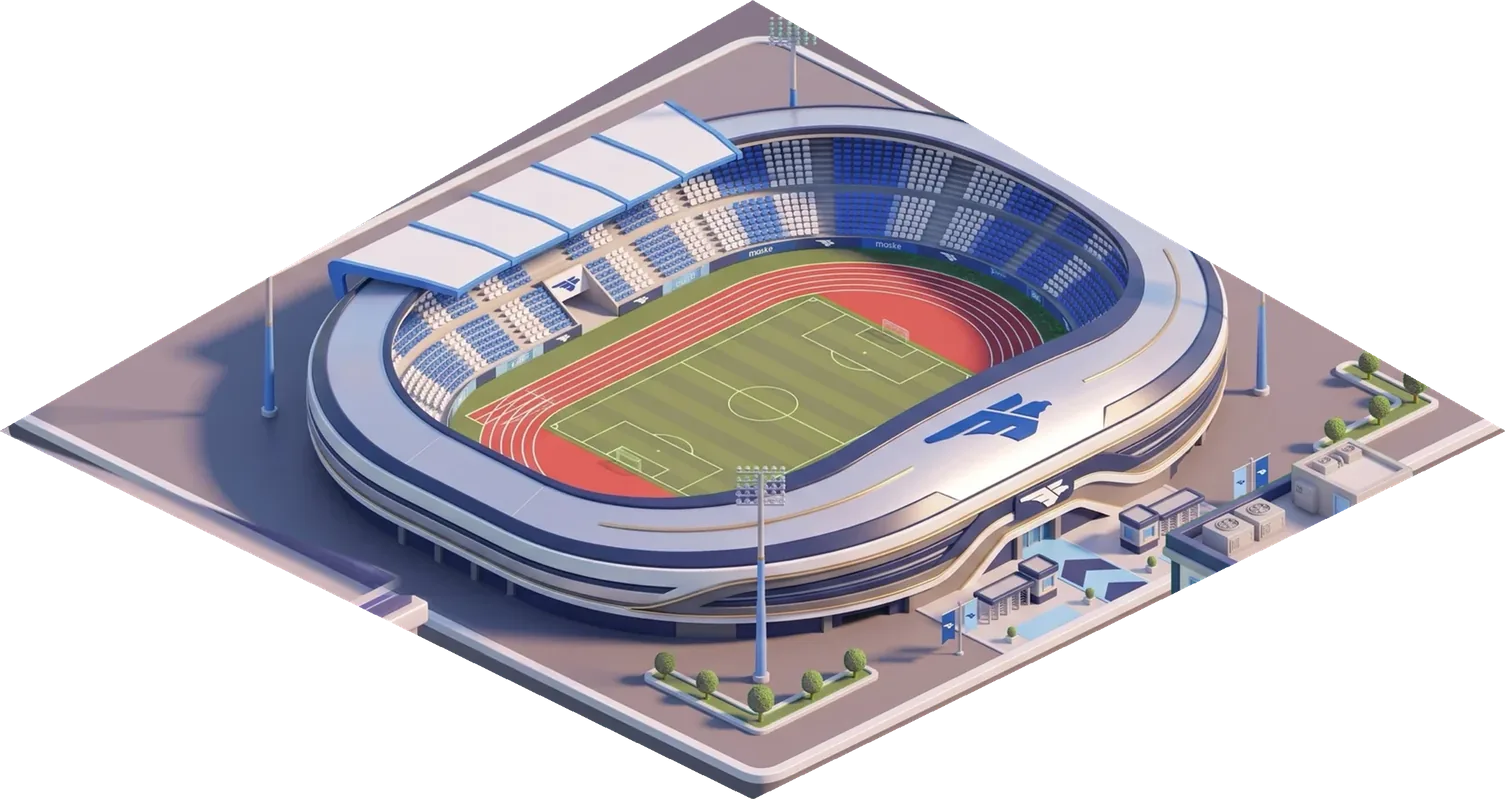
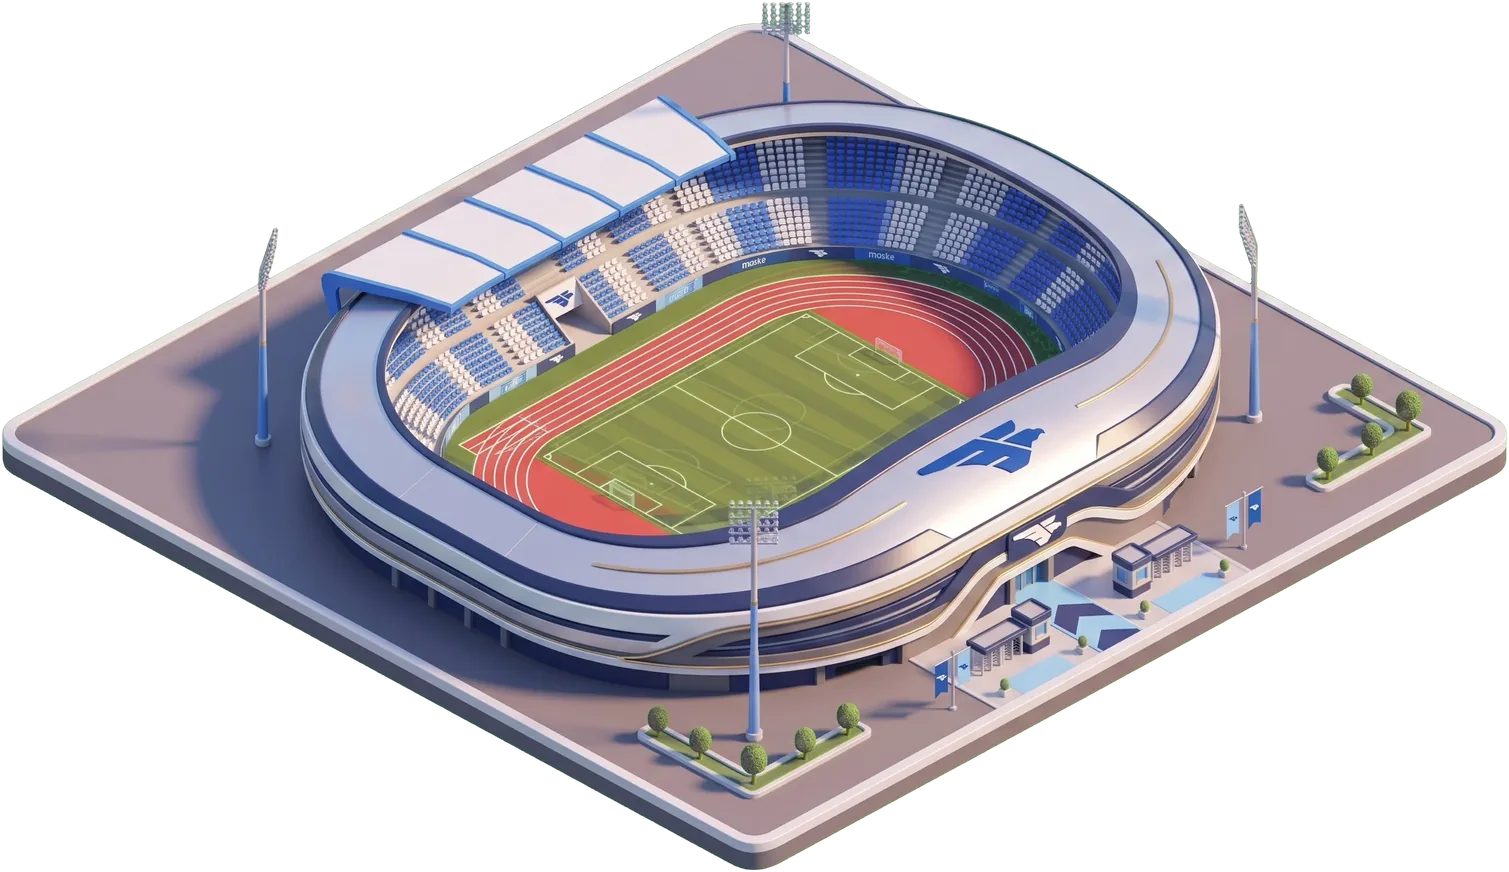
Island polish: whole stadium, navy shop, MOSKE box over rebuilds (#65)
The pool, Mall and market now draw in front of the base's collectors.
The stadium is the whole plot picture with its pitch filled in.
The gear shop uses Home's navy instead of bottle green.
While a club, pool or market is rebuilt, a giant MOSKE box covers the ruin.

Changed region(s): [[0.0, 0.0, 0.9993, 1.0]]

diff --git a/css/shop.css b/css/shop.css
@@ -1,12 +1,15 @@
-/* shop.css — the redesigned shop (docs/SHOP.md): a bottle green canvas, warm
+/* shop.css — the redesigned shop (docs/SHOP.md): Home's navy canvas, warm
    beige structure, square item cards two to a row on lit blue wells, chunky
    gold price buttons, and the tab's currency pinned to the bottom.
    Everything is scoped to .gw-screen.is-shop, so the inventory and the rest of
    the app keep their own look until they're redesigned. Tokens: theme.css. */
 
 /* ---- the canvas ---------------------------------------------------------------------- */
+/* the shop wears Home's navy: these replace theme.css's green for it alone */
+.gw-screen.is-shop, .sc-wallet, .sc-info-sheet { --bg-canvas: #16264D; --bg-surface-deep: #0B1630; --ink-green: #16264D; }
+
 .gw-screen.is-shop {
-  background: radial-gradient(120% 60% at 50% 0%, #17502E 0%, var(--bg-canvas) 55%, #0C301A 100%);
+  background: radial-gradient(120% 60% at 50% 0%, #2A4A86 0%, var(--bg-canvas) 55%, var(--bg-surface-deep) 100%);
   color: var(--text-white);
   font-family: var(--font-reading);
   font-variation-settings: 'wght' 600;
@@ -17,14 +20,14 @@
   font-family: var(--font-header); font-variation-settings: 'wght' 860;
 }
 
-/* the header: a beige band with the title in heavy ink */
-.gw-screen.is-shop > .sh-head { background: linear-gradient(var(--surface-neutral-hi), var(--surface-neutral)); color: var(--ink-green);
-  box-shadow: inset 0 -3px 0 var(--surface-neutral-lo), 0 3px 0 rgba(0, 0, 0, .35); }
+/* the header: a navy band with the title in white */
+.gw-screen.is-shop > .sh-head { background: linear-gradient(#2A3E6E, var(--bg-canvas)); color: var(--text-white);
+  box-shadow: inset 0 -2px 0 rgba(111, 174, 246, .35), 0 3px 0 rgba(0, 0, 0, .35); }
 .gw-screen.is-shop > .sh-head::after { display: none; }
-.gw-screen.is-shop .sh-title { color: var(--ink-green); }
+.gw-screen.is-shop .sh-title { color: var(--text-white); }
 .gw-screen.is-shop .sh-title-text { font-size: 22px; letter-spacing: .01em; text-transform: none; text-shadow: none; }
-.gw-screen.is-shop .sh-title .ic { color: var(--ink-green); }
-.gw-screen.is-shop .sh-lead { --b: transparent; --e: transparent; background: var(--bg-canvas); color: var(--text-white); border-radius: 12px;
+.gw-screen.is-shop .sh-title .ic { color: var(--text-white); }
+.gw-screen.is-shop .sh-lead { --b: transparent; --e: transparent; background: var(--brand-blue); color: var(--text-white); border-radius: 12px;
   box-shadow: inset 0 2px 0 rgba(255, 255, 255, .12), 0 3px 0 rgba(0, 0, 0, .35); }
 
 /* ---- tabs: beige plates; the open one is seafoam with a mint rim (css/tabs.css) ---------- */
@@ -121,21 +124,21 @@
 /* ---- the currency, pinned to the bottom ---------------------------------------------------- */
 .sc-wallet { position: fixed; left: 0; right: 0; bottom: 0; z-index: 100; display: grid; grid-template-columns: 40px auto minmax(0, 1fr); gap: 10px;
   align-items: center; min-height: 64px; padding: 8px 20px calc(8px + env(safe-area-inset-bottom, 0px));
-  background: linear-gradient(180deg, rgba(10, 39, 21, .85) 0%, var(--bg-surface-deep) 100%);
+  background: linear-gradient(180deg, rgba(22, 38, 77, .9) 0%, var(--bg-surface-deep) 100%);
   -webkit-backdrop-filter: blur(12px); backdrop-filter: blur(12px); border-top: 2px solid rgba(230, 215, 189, .15); color: var(--text-white); }
 .sc-wallet img { width: 40px; height: 40px; object-fit: contain; filter: drop-shadow(0 2px 2px rgba(0, 0, 0, .5)); }
-.sc-wallet-name { font: 15px/1 var(--font-header); font-variation-settings: 'wght' 860; color: var(--mint-light); }
+.sc-wallet-name { font: 15px/1 var(--font-header); font-variation-settings: 'wght' 860; color: #A9D3FF; }
 .sc-wallet-track { position: relative; display: flex; align-items: baseline; justify-content: flex-end; gap: 6px; min-height: 30px; padding: 4px 12px;
   border-radius: 9999px; background: rgba(0, 0, 0, .35); overflow: hidden; }
-.sc-wallet-track i { position: absolute; inset: 0 auto 0 0; width: calc(var(--f) * 100%); background: linear-gradient(90deg, rgba(57, 166, 114, .55), rgba(169, 211, 255, .6)); }
+.sc-wallet-track i { position: absolute; inset: 0 auto 0 0; width: calc(var(--f) * 100%); background: linear-gradient(90deg, rgba(47, 108, 194, .6), rgba(169, 211, 255, .6)); }
 .sc-wallet-track b { position: relative; font: 20px/1 var(--font-header); font-variation-settings: 'wght' 860; }
-.sc-wallet-track small { position: relative; font-size: 12px; color: var(--mint-light); }
+.sc-wallet-track small { position: relative; font-size: 12px; color: #A9D3FF; }
 
 /* ---- the (i) sheet: the shop's colours ------------------------------------------------------ */
 .sc-info-sheet { background: var(--bg-canvas); color: var(--text-white); font-family: var(--font-reading); font-variation-settings: 'wght' 600; }
-.sc-info-sheet .sh-head { background: linear-gradient(var(--surface-neutral-hi), var(--surface-neutral)); box-shadow: inset 0 -3px 0 var(--surface-neutral-lo); }
-.sc-info-sheet .sh-title, .sc-info-sheet .sh-title-text { color: var(--ink-green); font-family: var(--font-header); font-variation-settings: 'wght' 860; text-transform: none; text-shadow: none; }
-.sc-info-sheet .sh-lead { --b: transparent; --e: transparent; background: var(--bg-canvas); color: var(--text-white); border-radius: 12px; }
+.sc-info-sheet .sh-head { background: linear-gradient(#2A3E6E, var(--bg-canvas)); box-shadow: inset 0 -2px 0 rgba(111, 174, 246, .35); }
+.sc-info-sheet .sh-title, .sc-info-sheet .sh-title-text { color: var(--text-white); font-family: var(--font-header); font-variation-settings: 'wght' 860; text-transform: none; text-shadow: none; }
+.sc-info-sheet .sh-lead { --b: transparent; --e: transparent; background: var(--brand-blue); color: var(--text-white); border-radius: 12px; }
 .sc-info-sheet .sc-facts div { background: var(--bg-surface-deep); }
 .sc-info-sheet .sc-facts dt, .sc-info-sheet .sc-note { color: var(--mint-light); }
 .sc-info-sheet .sc-buy { font-family: var(--font-header); font-variation-settings: 'wght' 860; }

diff --git a/js/app/island-view.js b/js/app/island-view.js
@@ -1,7 +1,8 @@
 // island-view.js: the island's nine plots (docs/CITY.md).
 //
 // Every building is a picture standing on its plot. The club base, the pool and the market start
-// in ruins: tap one to pay for its rebuild, and a timer floats over it while the mechanic works.
+// in ruins: tap one to pay for its rebuild, and a giant MOSKE box covers it, with a timer floating
+// over it, until the mechanic is done.
 // Then the club base opens the club screen, the market takes one stall, and the mall opens the shop.
 
 import { esc } from './ui.js';
@@ -28,12 +29,15 @@ const SPOT_R = 0.21;
 const SPOTS = ISLAND_RULES.spots.map((spot, i) => ({ spot, a: [-0.2, 0.25, 0.7][i % 3], b: [-0.6, -0.1, 0.4][Math.floor(i / 3)] }));
 const onPlaza = (a, b) => [PLOT.market[0] + (a - b) * U, PLOT.market[1] + (a + b) * S * U];
 
-/** The picture a plot shows now: what's rebuilt shows its ruin, its works, or itself. */
+/** The construction box on a plot: one picture for all of them. */
+const boxOn = (plot) => ({ ...ART.box, x: PLOT[plot][0] + ART.box.dx, y: PLOT[plot][1] + ART.box.dy });
+
+/** The picture a plot shows now: what's rebuilt shows its ruin, the box, or itself. */
 function pictureOf(plot) {
   if (!REBUILT.includes(plot)) return ART[plot];
   const { state } = pieceState(myIsland(), plot, serverNow());
   if (state === 'built') return ART[plot];
-  return (state === 'building' && ART[`${plot}-build`]) || ART[`${plot}-ruin`];
+  return state === 'building' ? boxOn(plot) : ART[`${plot}-ruin`];
 }
 
 /** What can stand in front of the delivery van on its road: the mall and the market. */

diff --git a/css/styles.css b/css/styles.css
@@ -2895,6 +2895,8 @@ body.pg-mode:has(.dg-screen) .tabs { background: transparent; }
 /* the island's plots (island-view.js) */
 .dg-plots { position: absolute; left: 0; top: 0; width: 0; height: 0; pointer-events: none; }
 .dg-plots img { position: absolute; max-width: none; -webkit-user-drag: none; transform-origin: 50% 75%; }
+/* what stands in front of the base's collectors covers them; the collectors' layer is z-index 4 */
+.dg-plots [data-plot="pool"], .dg-plots [data-plot="mall"], .dg-plots [data-plot="market"], .dg-plots .dg-stand { z-index: 5; }
 .dg-plots img.is-tap { animation: dg-isl-tap 240ms ease-out; }
 @keyframes dg-isl-tap { 40% { transform: scale(1.018); } }
 .dg-isl-hit { position: absolute; z-index: 1; margin: 0; padding: 0; border: 0; background: none; cursor: pointer; -webkit-tap-highlight-color: transparent;

diff --git a/js/core/island-art.js b/js/core/island-art.js
@@ -171,13 +171,6 @@ export const ISLAND_ART = {
    "w": 2151.9,
    "h": 1473.7
   },
-  "club-build": {
-   "src": "icons/Island/club-build.webp",
-   "x": 4014.9,
-   "y": 1973.9,
-   "w": 2151.9,
-   "h": 1474.6
-  },
   "club": {
    "src": "icons/Island/club.webp",
    "x": 4014.9,
@@ -215,10 +208,17 @@ export const ISLAND_ART = {
   },
   "stadium": {
    "src": "icons/Island/stadium.webp",
-   "x": 6797.5,
-   "y": 2284.2,
-   "w": 2150,
-   "h": 1141
+   "x": 6795.0,
+   "y": 2204.0,
+   "w": 2155.1,
+   "h": 1246.1
+  },
+  "box": {
+   "src": "icons/Island/box.webp",
+   "dx": -1077.9,
+   "dy": -919.7,
+   "w": 2155.8,
+   "h": 1470.4
   }
  },
  "storey": {

diff --git a/sw.js b/sw.js
@@ -1,7 +1,7 @@
 // sw.js — offline-first service worker. Precaches the app shell and serves
 // cache-first, falling back to the network (and to index.html for navigations).
 
-const CACHE = 'triquest-v119';
+const CACHE = 'triquest-v120';
 const ASSETS = [
   './',
   './index.html',

diff --git a/tools/island-extras.py b/tools/island-extras.py
@@ -1,0 +1,103 @@
+"""island-extras.py: the two island pictures that don't come from cut-island.py's Gemini set.
+
+    python tools/island-extras.py stadium              the whole stadium, from icons/City/plots/
+    python tools/island-extras.py box <picture>        the construction box, on flat green
+
+Both update js/core/island-art.js in place. The stadium's plot picture had its grass keyed out with
+the green screen, so its holes are filled from the old city's stadium while that is still on disk.
+"""
+import importlib.util, json, os, sys
+import cv2
+import numpy as np
+from PIL import Image
+
+REPO = os.path.dirname(os.path.dirname(os.path.abspath(__file__)))
+ART_JS = os.path.join(REPO, 'js', 'core', 'island-art.js')
+spec = importlib.util.spec_from_file_location('cut_island', os.path.join(REPO, 'tools', 'cut-island.py'))
+cut = importlib.util.module_from_spec(spec); spec.loader.exec_module(cut)
+
+
+def read_art():
+    s = open(ART_JS, encoding='utf-8').read()
+    return s[:s.index('export const')], json.loads(s[s.index('{'):s.rindex('}') + 1])
+
+
+def write_art(head, data):
+    with open(ART_JS, 'w', encoding='utf-8', newline='\n') as f:
+        f.write(head + 'export const ISLAND_ART = ' + json.dumps(data, indent=1) + ';\n')
+
+
+def fill_grass(src, old):
+    """Put the old stadium's pixels under the plot picture's see-through parts."""
+    a = np.asarray(src).astype(np.float32); b = np.asarray(old).astype(np.uint8)
+    orb = cv2.ORB_create(6000)
+    k1, d1 = orb.detectAndCompute(cv2.cvtColor(a[..., :3].astype(np.uint8), cv2.COLOR_RGB2GRAY), None)
+    k2, d2 = orb.detectAndCompute(cv2.cvtColor(b[..., :3], cv2.COLOR_RGB2GRAY), None)
+    pairs = cv2.BFMatcher(cv2.NORM_HAMMING, crossCheck=True).match(d2, d1)
+    p2 = np.float32([k2[m.queryIdx].pt for m in pairs]); p1 = np.float32([k1[m.trainIdx].pt for m in pairs])
+    M, keep = cv2.estimateAffinePartial2D(p2, p1, ransacReprojThreshold=3)
+    print('matched', int(keep.sum()), 'of', len(pairs))
+    w = cv2.warpAffine(b, M, src.size, flags=cv2.INTER_LINEAR).astype(np.float32)
+    alpha = a[..., 3:] / 255
+    under = w[..., 3:] / 255
+    # only the holes: what's outside the plot's own outline stays empty
+    outside = (a[..., 3] < 128).astype(np.uint8)
+    cv2.floodFill(outside, None, (0, 0), 2)
+    inside = (outside != 2)[..., None]
+    rgb = a[..., :3] * alpha + w[..., :3] * (1 - alpha) * ((under > .8) & inside)
+    out_a = np.maximum(alpha, ((under > .8) & inside).astype(np.float32))
+    # undo the darkening where neither picture has anything
+    rgb = np.where(out_a > 0, rgb / np.maximum(out_a, 1e-3), a[..., :3])
+    return Image.fromarray(np.dstack([rgb, out_a * 255]).clip(0, 255).astype(np.uint8), 'RGBA')
+
+
+def stadium(data):
+    src = Image.open(os.path.join(REPO, 'icons', 'City', 'plots', 'stadium.webp')).convert('RGBA')
+    old = Image.open(os.path.join(cut.OUT, 'stadium.webp')).convert('RGBA')
+    im = fill_grass(src, old.resize((data['pieces']['stadium']['w'], data['pieces']['stadium']['h']), Image.LANCZOS))
+    a = np.asarray(im.getchannel('A')) > 200
+    low = a[a.shape[0] // 2:]
+    xs = np.where(low.sum(0) >= 3)[0]; ys = np.where(a.sum(1) >= 3)[0]
+    x0, x1, top, bottom = int(xs[0]), int(xs[-1]) + 1, int(ys[0]), int(ys[-1]) + 1
+    k = 4 * cut.UNIT / (x1 - x0)
+    px, py = cut.centre('stadium')
+    box = (x0 - 4, top - 4, x1 + 4, bottom + 4)
+    c = im.crop(box)
+    w, h = c.width * k, c.height * k
+    cut.save(c.resize((round(w * .7), round(h * .7)), Image.LANCZOS), 'stadium')
+    left = px - (x0 + x1) / 2 * k; up = py + 2 * cut.SLOPE * cut.UNIT + cut.KERB - bottom * k
+    data['pieces']['stadium'] = {'src': 'icons/Island/stadium.webp', 'x': round(left + box[0] * k, 1), 'y': round(up + box[1] * k, 1), 'w': round(w, 1), 'h': round(h, 1)}
+    print(data['pieces']['stadium'])
+
+
+def clean_edge(path):
+    """Take the green tint out of the outermost pixels: the picture has no green of its own."""
+    a = np.array(Image.open(path).convert('RGBA'))
+    solid = (a[..., 3] > 128).astype(np.uint8)
+    rim = solid - cv2.erode(solid, np.ones((7, 7), np.uint8))
+    tinted = (rim > 0) & (a[..., 1] > np.maximum(a[..., 0], a[..., 2]))
+    a[..., 1][tinted] = np.maximum(a[..., 0], a[..., 2])[tinted]
+    # and one pixel in from the very edge, where the tint is strongest
+    a[..., 3] = np.minimum(a[..., 3], cv2.erode(a[..., 3], np.ones((3, 3), np.uint8)))
+    Image.fromarray(a, 'RGBA').save(path, quality=82, alpha_quality=88, method=6)
+
+
+def box(data, path):
+    """One picture for every plot: stored by its offset from the plot's centre."""
+    p = cut.fit_plot('box', 'market', path, .6)
+    clean_edge(os.path.join(cut.OUT, 'box.webp'))
+    cx, cy = cut.centre('market')
+    data['pieces']['box'] = {'src': 'icons/Island/box.webp', 'dx': round(p['x'] - cx, 1), 'dy': round(p['y'] - cy, 1), 'w': p['w'], 'h': p['h']}
+    print(data['pieces']['box'])
+
+
+def main():
+    head, data = read_art()
+    if sys.argv[1] == 'stadium':
+        stadium(data)
+    elif sys.argv[1] == 'box':
+        box(data, sys.argv[2])
+    write_art(head, data)
+
+
+main()

diff --git a/tools/cut-island.py b/tools/cut-island.py
@@ -1,10 +1,11 @@
 """cut-island.py: the island's pictures for the app (docs/CITY.md), and js/core/island-art.js, where they stand.
 
-    python tools/cut-island.py <island picture, 5504 x 3072> <upscaled art dir> <old city picture, 5376 x 4980>
+    python tools/cut-island.py <island picture, 5504 x 3072> <upscaled art dir>
 
 The ground is one Gemini picture, cut in tiles: full size round the city, half size over open sea.
 Each plot's building is on flat green and is keyed out, then fitted to its plot by the plot's own
-corners (the paintings don't all sit at exactly the same size). The stadium comes from the old city.
+corners (the paintings don't all sit at exactly the same size). The stadium and the construction
+box are tools/island-extras.py's: they're kept as they are.
 """
 import json, os, sys
 import numpy as np
@@ -33,7 +34,6 @@ ART = {  # key: (plot, file, stored px per world px)
     'mall': ('mall', 'Moske Mall-upscale-2x.jpg', .6),
     'base': ('base', 'base-c-upscale-2x.png', 1.25),
     'club-ruin': ('club', 'Club Base level 1-upscale-2x.jpg', .6),
-    'club-build': ('club', 'Club base during construction time-upscale-2x.jpg', .6),
     'club': ('club', 'Club Base stage 3 post construction-upscale-2x.jpg', .6),
     'pool-ruin': ('pool', 'Moske Pool derrelict - before fix-upscale-2x.jpg', .6),
     'pool': ('pool', 'Moske Pool-upscale-2x.jpg', .6),
@@ -110,22 +110,6 @@ def ground(src):
     return tiles
 
 
-def stadium(src):
-    """The stadium's block, cut from the old city in a diamond."""
-    old = Image.open(src).convert('RGBA')
-    cx, cy = 2691.5 + 1391, 3245.5 - SLOPE * 1391
-    hw, hh, up = 1075, 1075 * SLOPE, 90
-    b = (round(cx - hw), round(cy - hh - up), round(cx + hw), round(cy + hh))
-    c = old.crop(b)
-    m = Image.new('L', c.size, 0)
-    ImageDraw.Draw(m).polygon([(hw, 0), (2 * hw, up + hh), (hw, c.height), (0, up + hh)], fill=255)
-    c.putalpha(m)
-    px, py = centre('stadium')
-    out = c.resize((round(c.width * .7), round(c.height * .7)), Image.LANCZOS)
-    save(out, 'stadium')
-    return {'x': round(px - hw, 1), 'y': round(py - hh - up, 1), 'w': c.width, 'h': c.height}
-
-
 def storey(src):
     """One upper floor. Its front corner stands on the roof below; returns its box and its height."""
     im = key(src)
@@ -142,10 +126,12 @@ def storey(src):
 
 
 def main():
-    isle, up, old = sys.argv[1:4]
+    isle, up = sys.argv[1:3]
+    with open(os.path.join(REPO, 'js', 'core', 'island-art.js'), encoding='utf-8') as f:
+        kept = json.loads((t := f.read())[t.index('{'):t.rindex('}') + 1])['pieces']
     os.makedirs(OUT, exist_ok=True)
     pieces = {name: {'src': f'icons/Island/{name}.webp', **fit_plot(name, plot, os.path.join(up, f), s)} for name, (plot, f, s) in ART.items()}
-    pieces['stadium'] = {'src': 'icons/Island/stadium.webp', **stadium(old)}
+    pieces.update({k: kept[k] for k in ('stadium', 'box')})
     pl = {p: [round(v, 1) for v in centre(p)] for p in PLOTS}
     data = {'world': {'w': WORLD[0], 'h': WORLD[1]}, 'tiles': ground(isle), 'plots': pl, 'pieces': pieces,
             'storey': {'src': 'icons/Island/storey.webp', **storey(os.path.join(up, 'storey-d-upscale-2x.png'))}, 'unit': UNIT, 'slope': SLOPE,

diff --git a/docs/CITY.md b/docs/CITY.md
@@ -237,6 +237,10 @@ Don't put a city-sized layer over a 3D canvas, the city's or the runner's on the
 
 The parcel bubble sits on a small layer of its own over the 3D canvas, `.dg-front`, with no size of its own, so it shows over the 3D sign at the cost of the bubble only.
 
+## The island's stadium and construction box
+
+Both are cut by `tools/island-extras.py`. While a club, pool or market is being rebuilt, one picture of a giant MOSKE box (`icons/Island/box.webp`) stands on its plot in place of the ruin, with the timer over it. The pool, the Mall and the market stand in front of the base's collectors, so they're drawn over them.
+
 ## Previewing the 32 x 32 rooms
 
 Only level 10 exists so far, so these rooms stay hidden from players. Open the app with `?rooms32=1` to see them on that device, and `?rooms32=0` to turn them off. Admins can also buy the real upgrade for any room from the Expand window. `tools/cut-rooms-32.py` cuts them and writes `js/core/room32-art.js`.
